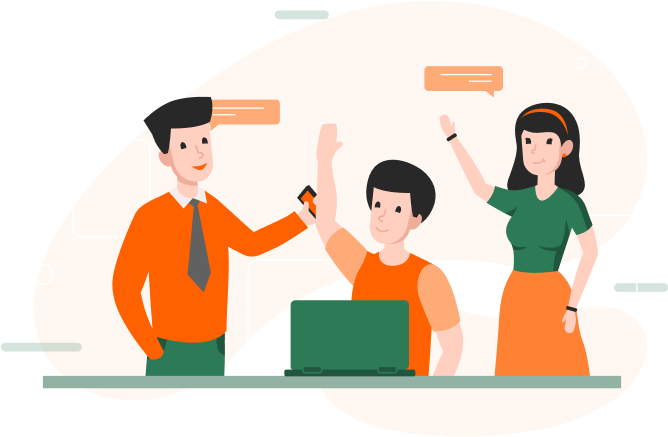
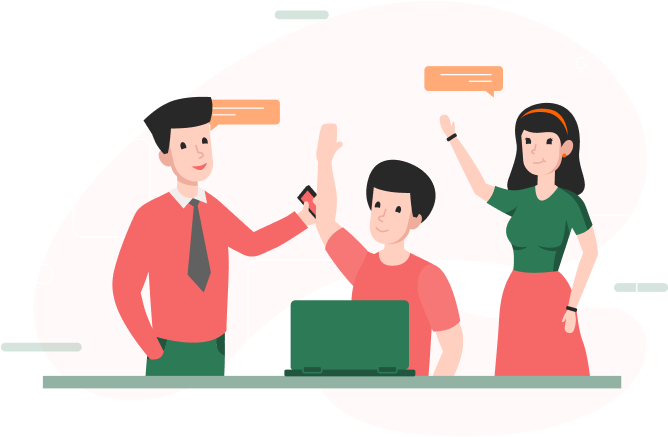
change color image

Changed region(s): [[0.1497, 0.4462, 0.479, 0.833], [0.479, 0.5057, 0.6886, 0.8627], [0.7186, 0.6247, 0.8982, 0.8627]]

diff --git a/public/images/icons/IconOurTeam.tsx b/public/images/icons/IconOurTeam.tsx
@@ -15,7 +15,7 @@ function IconOurTeam(props: any, fill?: string) {
           <path
             id="Shape"
             d="M0.00957613 14.5788C-0.0483371 14.049 0.121936 13.5196 0.477837 13.1229C0.833737 12.7262 1.34163 12.4997 1.87458 12.5H9.99958C10.6899 12.5 11.2496 11.9404 11.2496 11.25C11.2496 10.5596 10.6899 10 9.99958 10H4.37458C3.84171 10.0013 3.33347 9.77574 2.97687 9.37978C2.62027 8.98382 2.44899 8.45483 2.50583 7.925C2.66579 6.92879 3.54517 6.20939 4.55333 6.25H12.4996C13.1899 6.25 13.7496 5.69036 13.7496 5C13.7496 4.30965 13.1899 3.75 12.4996 3.75H6.87458C6.34171 3.75127 5.83347 3.52574 5.47687 3.12978C5.12027 2.73382 4.94899 2.20483 5.00583 1.675C5.16527 0.678492 6.04498 -0.0411792 7.05333 3.03448e-06H25.5646C25.7924 0.0017321 26.0155 0.0657038 26.2096 0.185003L31.2646 3.2125C31.8463 3.56131 32.5113 3.74698 33.1896 3.75H44.9996V14.8613L42.8346 13.0888C41.2099 11.8487 38.9247 11.9744 37.4458 13.385C36.3477 14.45 35.966 16.0547 36.4671 17.5H32.2758C31.2921 17.5041 30.3493 17.8947 29.6508 18.5875L17.8871 30.255L17.8621 30.28L17.3421 30.795C16.7323 31.3911 15.7561 31.3844 15.1546 30.78C14.6056 30.2288 14.552 29.3554 15.0296 28.7413L18.4671 24.5413C18.7727 24.1674 18.8358 23.651 18.6289 23.2146C18.4221 22.7783 17.9825 22.5001 17.4996 22.5H3.30333C2.29679 22.5393 1.41942 21.8208 1.25958 20.8263C1.20243 20.2969 1.37304 19.7682 1.72886 19.372C2.08467 18.9759 2.59212 18.7498 3.12458 18.75H9.99958C10.6899 18.75 11.2496 18.1904 11.2496 17.5C11.2496 16.8096 10.6899 16.25 9.99958 16.25H2.05333C1.0478 16.2889 0.171066 15.572 0.00957613 14.5788ZM20.8146 68.74C20.2883 68.7968 19.7628 68.6258 19.3708 68.27C18.977 67.9129 18.7515 67.4066 18.7496 66.875V66.8563V60C18.7496 59.3097 18.1899 58.75 17.4996 58.75C16.8092 58.75 16.2496 59.3097 16.2496 60V66.875V66.8925V67.9488C16.2839 68.9588 15.5593 69.8358 14.5608 69.9925C14.0356 70.0497 13.5112 69.8785 13.1208 69.5225C12.7261 69.165 12.5005 68.6576 12.4996 68.125V65.625V65.6V60C12.4996 59.3097 11.9399 58.75 11.2496 58.75C10.5592 58.75 9.99958 59.3097 9.99958 60V65.625V65.64C9.99624 66.17 9.76872 66.6739 9.37333 67.0269C8.97793 67.3799 8.4516 67.5491 7.92458 67.4925C6.92856 67.3331 6.20904 66.4541 6.24958 65.4463V63.125V63.1063V57.5C6.24958 56.8097 5.68993 56.25 4.99958 56.25C4.30922 56.25 3.74958 56.8097 3.74958 57.5V63.125V63.1363C3.74726 63.6667 3.52037 64.1713 3.12513 64.5251C2.72989 64.8789 2.20329 65.0487 1.67583 64.9925C0.680098 64.8332 -0.0396541 63.9551 -0.00042389 62.9475V44.4363C0.00150237 44.2111 0.0604165 43.99 0.170826 43.7938L3.21208 38.7363C3.56015 38.1547 3.74577 37.4903 3.74958 36.8125V25H14.8596L13.0858 27.1663C11.9423 28.5572 11.861 30.5381 12.8866 32.0181C13.9123 33.4981 15.7957 34.1174 17.4996 33.535V37.725C17.5037 38.7088 17.8943 39.6515 18.5871 40.35L30.2446 52.1C30.2583 52.115 30.2721 52.1288 30.2871 52.1425L30.7958 52.655C31.2338 53.1008 31.3612 53.7661 31.1189 54.3422C30.8766 54.9183 30.312 55.2925 29.6871 55.2913C29.3469 55.2928 29.0163 55.1786 28.7496 54.9675L24.5508 51.5313C24.1771 51.2191 23.6561 51.1524 23.2157 51.3604C22.7754 51.5683 22.4959 52.0131 22.4996 52.5V66.6963C22.5342 67.7051 21.8115 68.5816 20.8146 68.74ZM69.9896 55.4213C70.0475 55.951 69.8772 56.4804 69.5213 56.8771C69.1654 57.2738 68.6575 57.5003 68.1246 57.5H59.9996C59.3092 57.5 58.7496 58.0597 58.7496 58.75C58.7496 59.4404 59.3092 60 59.9996 60H65.6246C66.1575 59.9987 66.6657 60.2243 67.0223 60.6202C67.3789 61.0162 67.5502 61.5452 67.4933 62.075C67.3334 63.0712 66.454 63.7906 65.4458 63.75H57.4996C56.8092 63.75 56.2496 64.3097 56.2496 65C56.2496 65.6904 56.8092 66.25 57.4996 66.25H63.1246C63.6575 66.2487 64.1657 66.4743 64.5223 66.8702C64.8789 67.2662 65.0502 67.7952 64.9933 68.325C64.8339 69.3215 63.9542 70.0412 62.9458 70H44.4346C44.2067 69.9983 43.9837 69.9343 43.7896 69.815L38.7346 66.7875C38.1528 66.4387 37.4879 66.253 36.8096 66.25H24.9996V55.1363L27.1646 56.9088C28.7877 58.1536 31.0764 58.0278 32.5533 56.6125C33.6518 55.5489 34.0349 53.9453 33.5358 52.5H37.7233C38.7071 52.4959 39.6499 52.1053 40.3483 51.4125L52.1083 39.75L52.1521 39.7075L52.6608 39.2075C53.2706 38.6114 54.2468 38.6181 54.8483 39.2225C55.3974 39.7737 55.4509 40.6471 54.9733 41.2613L51.5358 45.4613C51.2322 45.8346 51.1698 46.3491 51.3755 46.7842C51.5811 47.2193 52.0183 47.4977 52.4996 47.5H66.6958C67.7024 47.4607 68.5797 48.1792 68.7396 49.1738C68.7967 49.7031 68.6261 50.2319 68.2703 50.628C67.9145 51.0241 67.407 51.2502 66.8746 51.25H59.9996C59.3092 51.25 58.7496 51.8097 58.7496 52.5C58.7496 53.1904 59.3092 53.75 59.9996 53.75H67.9496C68.9537 53.713 69.8283 54.4295 69.9896 55.4213ZM69.9996 25.5638C69.9977 25.7914 69.9342 26.0143 69.8158 26.2088L66.7871 31.2638C66.4384 31.8451 66.2528 32.5096 66.2496 33.1875V45H55.1358L56.9096 42.8338C58.1971 41.2245 58.0684 38.9045 56.6108 37.4475C55.5189 36.3997 53.94 36.0358 52.4996 36.5V32.275C52.4954 31.2912 52.1049 30.3485 51.4121 29.65L39.7496 17.8825L39.7258 17.8588L39.2096 17.3388C38.9167 17.0495 38.7531 16.6541 38.756 16.2425C38.7588 15.8308 38.9278 15.4378 39.2246 15.1525C39.7833 14.6194 40.6449 14.5666 41.2646 15.0275L45.4633 18.4638C45.8367 18.7659 46.3502 18.8273 46.7844 18.6219C47.2185 18.4164 47.4965 17.9803 47.4996 17.5V3.30375C47.4609 2.297 48.1798 1.4198 49.1746 1.26C49.7038 1.20323 50.2321 1.37402 50.628 1.72979C51.0238 2.08556 51.2498 2.59279 51.2496 3.125V10C51.2496 10.6904 51.8092 11.25 52.4996 11.25C53.1899 11.25 53.7496 10.6904 53.7496 10V2.05375C53.7103 1.04681 54.4295 0.169283 55.4246 0.0100031C55.9538 -0.0467666 56.4821 0.124025 56.878 0.479794C57.2738 0.835564 57.4998 1.34279 57.4996 1.875V10C57.4996 10.6904 58.0592 11.25 58.7496 11.25C59.4399 11.25 59.9996 10.6904 59.9996 10V4.375C59.9987 3.84235 60.2244 3.33445 60.6203 2.97813C61.0162 2.6218 61.545 2.45069 62.0746 2.5075C63.0706 2.66689 63.7901 3.54588 63.7496 4.55375V12.5C63.7496 13.1904 64.3092 13.75 64.9996 13.75C65.6899 13.75 66.2496 13.1904 66.2496 12.5V6.875C66.2487 6.34235 66.4744 5.83445 66.8703 5.47813C67.2662 5.1218 67.795 4.95069 68.3246 5.0075C69.3198 5.16736 70.0389 6.04529 69.9996 7.0525V25.5638Z"
-            fill="#FF8134"
+            fill="#d31111"
           />
         </g>
       </g>

diff --git a/public/images/icons/IconDf1.tsx b/public/images/icons/IconDf1.tsx
@@ -16,40 +16,40 @@ function IconDf1(props: any, fill?: string) {
           fill-rule="evenodd"
           clip-rule="evenodd"
           d="M19.5417 25.5C19.5417 24.1635 19.0101 22.8801 18.0659 21.9341C17.1199 20.99 15.8366 20.4583 14.5001 20.4583H5.33342C3.99691 20.4583 2.71358 20.99 1.76758 21.9341C0.823415 22.8801 0.291748 24.1635 0.291748 25.5V34.6666C0.291748 36.0031 0.823415 37.2865 1.76758 38.2325C2.71358 39.1766 3.99691 39.7083 5.33342 39.7083H14.5001C15.8366 39.7083 17.1199 39.1766 18.0659 38.2325C19.0101 37.2865 19.5417 36.0031 19.5417 34.6666V25.5ZM16.7917 25.5V34.6666C16.7917 35.2753 16.5497 35.8565 16.1207 36.2873C15.6899 36.7163 15.1087 36.9583 14.5001 36.9583H5.33342C4.72475 36.9583 4.14358 36.7163 3.71275 36.2873C3.28375 35.8565 3.04175 35.2753 3.04175 34.6666V25.5C3.04175 24.8913 3.28375 24.3101 3.71275 23.8793C4.14358 23.4503 4.72475 23.2083 5.33342 23.2083H14.5001C15.1087 23.2083 15.6899 23.4503 16.1207 23.8793C16.5497 24.3101 16.7917 24.8913 16.7917 25.5Z"
-          fill="#FF6100"
+          fill="#f04848"
         />
         <path
           id="Vector_2"
           fill-rule="evenodd"
           clip-rule="evenodd"
           d="M39.7085 25.5C39.7085 24.1635 39.1768 22.8801 38.2327 21.9341C37.2867 20.99 36.0033 20.4583 34.6668 20.4583H25.5002C24.1637 20.4583 22.8803 20.99 21.9343 21.9341C20.9902 22.8801 20.4585 24.1635 20.4585 25.5V34.6666C20.4585 36.0031 20.9902 37.2865 21.9343 38.2325C22.8803 39.1766 24.1637 39.7083 25.5002 39.7083H34.6668C36.0033 39.7083 37.2867 39.1766 38.2327 38.2325C39.1768 37.2865 39.7085 36.0031 39.7085 34.6666V25.5ZM34.4322 31.2768C34.8612 31.033 35.1252 30.5765 35.1252 30.0833C35.1252 29.5901 34.8612 29.1336 34.4322 28.8898L28.0155 25.2231C27.5902 24.9793 27.0677 24.9811 26.6442 25.2268C26.2188 25.4743 25.9585 25.9271 25.9585 26.4166V33.75C25.9585 34.2395 26.2188 34.6923 26.6442 34.9398C27.0677 35.1855 27.5902 35.1873 28.0155 34.9435L34.4322 31.2768Z"
-          fill="#FF6100"
+          fill="#f04848"
         />
         <path
           id="Vector_3"
           d="M12.6667 28.25C13.4261 28.25 14.0417 27.6344 14.0417 26.875C14.0417 26.1156 13.4261 25.5 12.6667 25.5C11.9074 25.5 11.2917 26.1156 11.2917 26.875C11.2917 27.6344 11.9074 28.25 12.6667 28.25Z"
-          fill="#FF6100"
+          fill="#f04848"
         />
         <path
           id="Vector_4"
           fill-rule="evenodd"
           clip-rule="evenodd"
           d="M19.5417 5.33332C19.5417 3.99682 19.0101 2.71349 18.0659 1.76749C17.1199 0.823323 15.8366 0.291656 14.5001 0.291656H5.33342C3.99691 0.291656 2.71358 0.823323 1.76758 1.76749C0.823415 2.71349 0.291748 3.99682 0.291748 5.33332V14.5C0.291748 15.8365 0.823415 17.1198 1.76758 18.0658C2.71358 19.01 3.99691 19.5417 5.33342 19.5417H14.5001C15.8366 19.5417 17.1199 19.01 18.0659 18.0658C19.0101 17.1198 19.5417 15.8365 19.5417 14.5V5.33332ZM11.9664 11.9388C11.9756 11.8783 11.9792 11.8142 11.9792 11.75V8.08332H12.4376C13.1966 8.08332 13.8126 7.46732 13.8126 6.70832C13.8126 5.94932 13.1966 5.33332 12.4376 5.33332H10.6042C9.84525 5.33332 9.22925 5.94932 9.22925 6.70832V9.45832C7.71125 9.45832 6.47925 10.6903 6.47925 12.2083C6.47925 13.7263 7.71125 14.9583 9.22925 14.9583C10.7472 14.9583 11.9792 13.7263 11.9792 12.2083C11.9792 12.1185 11.9756 12.0287 11.9664 11.9388Z"
-          fill="#FF6100"
+          fill="#f04848"
         />
         <path
           id="Vector_5"
           fill-rule="evenodd"
           clip-rule="evenodd"
           d="M8.42075 31.9442L2.75208 24.6567C2.39091 24.1928 1.77675 24.0095 1.22125 24.2002C0.665748 24.3908 0.291748 24.9133 0.291748 25.5L1.66675 37.875H17.2501L18.6251 35.5833C18.6251 35.2185 18.4802 34.8683 18.2217 34.6117L14.1444 30.5343C13.4019 29.79 12.2469 29.6488 11.3449 30.1897L8.42075 31.9442Z"
-          fill="#FF6100"
+          fill="#f04848"
         />
         <path
           id="Vector_6"
           fill-rule="evenodd"
           clip-rule="evenodd"
           d="M39.7085 5.33332C39.7085 3.99682 39.1768 2.71349 38.2327 1.76749C37.2867 0.823323 36.0033 0.291656 34.6668 0.291656H25.5002C24.1637 0.291656 22.8803 0.823323 21.9343 1.76749C20.9902 2.71349 20.4585 3.99682 20.4585 5.33332V14.5C20.4585 15.8365 20.9902 17.1198 21.9343 18.0658C22.8803 19.01 24.1637 19.5417 25.5002 19.5417H34.6668C36.0033 19.5417 37.2867 19.01 38.2327 18.0658C39.1768 17.1198 39.7085 15.8365 39.7085 14.5V5.33332ZM26.4168 14.0417H33.7502C34.5092 14.0417 35.1252 13.4257 35.1252 12.6667C35.1252 11.9077 34.5092 11.2917 33.7502 11.2917H26.4168C25.6578 11.2917 25.0418 11.9077 25.0418 12.6667C25.0418 13.4257 25.6578 14.0417 26.4168 14.0417ZM26.4168 8.54166H31.0002C31.7592 8.54166 32.3752 7.92566 32.3752 7.16666C32.3752 6.40766 31.7592 5.79166 31.0002 5.79166H26.4168C25.6578 5.79166 25.0418 6.40766 25.0418 7.16666C25.0418 7.92566 25.6578 8.54166 26.4168 8.54166Z"
-          fill="#FF6100"
+          fill="#f04848"
         />
       </g>
     </svg>

diff --git a/public/images/icons/IconVision.tsx b/public/images/icons/IconVision.tsx
@@ -14,62 +14,62 @@ function IconVision(props: any, fill?: string) {
         <path
           id="Vector"
           d="M34.9999 69.9848C38.3606 69.9848 41.1773 67.6051 41.8514 64.4417H28.1484C28.8225 67.6051 31.6393 69.9848 34.9999 69.9848Z"
-          fill="#FF8134"
+          fill="#d31111"
         />
         <path
           id="Vector_2"
           d="M24.2224 55.864V60.3316H45.7783V55.9955C45.7783 54.8707 45.9317 53.7651 46.2263 52.7075H23.8018C24.0785 53.7226 24.2224 54.783 24.2224 55.864Z"
-          fill="#FF8134"
+          fill="#d31111"
         />
         <path
           id="Vector_3"
           d="M51.1758 13.7249C46.952 9.44765 41.3199 7.04738 35.3151 6.96655C29.2418 6.88297 23.4973 9.1942 19.1255 13.4714C14.7565 17.7445 12.322 23.4356 12.2713 29.4965C12.2151 36.1905 15.0922 42.5391 20.164 46.9136C20.7559 47.4233 21.2888 47.9877 21.7587 48.5974H48.27C48.7536 47.9644 49.303 47.3781 49.9113 46.8492C54.8803 42.5254 57.73 36.2727 57.73 29.6938C57.73 23.6767 55.4023 18.0062 51.1758 13.7249ZM49.9606 29.3157C49.7044 29.7253 43.5927 39.3415 35 39.3415C26.4072 39.3415 20.2955 29.7253 20.0393 29.3157L19.3584 28.2265L20.0393 27.1374C20.2955 26.7277 26.4072 17.1116 35 17.1116C43.5927 17.1116 49.7044 26.7277 49.9606 27.1374L50.6415 28.2265L49.9606 29.3157Z"
-          fill="#FF8134"
+          fill="#d31111"
         />
         <path
           id="Vector_4"
           d="M35.0007 21.2216C30.122 21.2216 25.9558 26.0153 24.2939 28.2265C25.9558 30.4364 30.122 35.2315 35.0007 35.2315C39.8793 35.2315 44.0455 30.4364 45.7074 28.2265C44.0469 26.0181 39.8807 21.2216 35.0007 21.2216ZM37.0557 30.2816H32.9456V26.1715H37.0557V30.2816Z"
-          fill="#FF8134"
+          fill="#d31111"
         />
         <path
           id="Vector_5"
           d="M8.87012 2.92249L11.7759 0.0166703L16.0378 4.27853L13.132 7.18435L8.87012 2.92249Z"
-          fill="#FF8134"
+          fill="#d31111"
         />
         <path
           id="Vector_6"
           d="M0.0078125 20.5697L1.23261 16.6446L6.98944 18.441L5.76464 22.3661L0.0078125 20.5697Z"
-          fill="#FF8134"
+          fill="#d31111"
         />
         <path
           id="Vector_7"
           d="M8.86426 56.2123L13.1261 51.9505L16.0319 54.8563L11.7701 59.1182L8.86426 56.2123Z"
-          fill="#FF8134"
+          fill="#d31111"
         />
         <path
           id="Vector_8"
           d="M0 38.5997L5.75683 36.8034L6.98163 40.7285L1.2248 42.5248L0 38.5997Z"
-          fill="#FF8134"
+          fill="#d31111"
         />
         <path
           id="Vector_9"
           d="M53.9541 4.28345L58.216 0.021585L61.1218 2.9274L56.8599 7.18926L53.9541 4.28345Z"
-          fill="#FF8134"
+          fill="#d31111"
         />
         <path
           id="Vector_10"
           d="M63.0488 18.4545L68.8057 16.6582L70.0305 20.5833L64.2736 22.3796L63.0488 18.4545Z"
-          fill="#FF8134"
+          fill="#d31111"
         />
         <path
           id="Vector_11"
           d="M53.9492 54.8604L56.855 51.9546L61.1169 56.2165L58.2111 59.1223L53.9492 54.8604Z"
-          fill="#FF8134"
+          fill="#d31111"
         />
         <path
           id="Vector_12"
           d="M63.0361 40.681L64.2609 36.7559L70.0178 38.5523L68.793 42.4774L63.0361 40.681Z"
-          fill="#FF8134"
+          fill="#d31111"
         />
       </g>
     </svg>

diff --git a/public/images/icons/IconMission.tsx b/public/images/icons/IconMission.tsx
@@ -14,32 +14,32 @@ function IconMission(props: any, fill?: string) {
         <path
           id="Vector"
           d="M65.2748 5.65355C65.2202 5.1618 64.8158 4.75738 64.324 4.70274C60.1273 4.20006 55.9525 4.32026 51.9088 5.05248C43.4561 6.50169 35.0995 11.0948 28.6193 17.3585C28.0208 17.9281 26.5934 19.2759 26.0182 19.8284C22.607 23.7716 18.6754 28.9951 16.39 33.4131C16.0602 34.0824 16.3854 34.5906 16.9473 35.0742C17.4718 35.5988 18.4773 36.5933 19.756 37.872C24.6439 42.772 29.981 48.107 34.9034 53.0304L35.275 53.4019C35.7936 53.9317 36.5322 53.6942 37.0673 53.3145C39.6138 51.8937 43.1001 49.7298 46.7722 46.7572C59.1619 37.0541 67.465 21.5926 65.2748 5.65355ZM51.0564 31.3365C45.6596 36.8538 35.9835 32.8564 36.0729 25.1287C36.0007 17.3917 45.6272 13.4009 51.0564 18.9214C54.488 22.342 54.488 27.9157 51.0564 31.3365Z"
-          fill="#FF8134"
+          fill="#d31111"
         />
         <path
           id="Vector_2"
           d="M6.45525 36.3419C6.49895 36.3419 6.54263 36.3419 6.58639 36.331L14.4224 35.3802C13.8389 34.2727 14.0412 32.9319 14.7284 31.8939C15.2748 30.8884 16.171 29.3474 17.4169 27.4567C19.4835 24.2342 22.0324 21.1553 24.477 18.2874C24.477 18.2874 26.0508 16.7901 26.0508 16.7901C12.9529 16.6597 6.24843 28.1733 5.3844 35.0853C5.25881 35.7166 5.80157 36.3628 6.45525 36.3419Z"
-          fill="#FF8134"
+          fill="#d31111"
         />
         <path
           id="Vector_3"
           d="M48.1489 48.4511C45.0342 50.9757 41.6681 53.2489 38.1271 55.2271C37.1193 55.9183 35.7118 56.1611 34.5971 55.5549C34.5971 55.5549 33.6463 63.3909 33.6463 63.3909C33.5532 64.0144 34.0894 64.6304 34.7283 64.6149C36.7929 64.313 46.096 62.4458 50.8702 53.5004C52.3665 50.6936 53.2441 46.9269 53.198 43.9047C51.6066 45.4973 49.9588 46.9878 48.1489 48.4511Z"
-          fill="#FF8134"
+          fill="#d31111"
         />
         <path
           id="Vector_4"
           d="M28.9357 50.1561C25.6797 46.8912 21.9304 43.1464 18.7282 39.9375L17.985 41.4457C17.3621 42.7025 17.6025 44.2217 18.597 45.2162L24.7609 51.3801C25.7633 52.3744 27.2831 52.628 28.5314 51.9921L30.0396 51.249C29.6747 50.8856 29.3182 50.5235 28.9357 50.1561Z"
-          fill="#FF8134"
+          fill="#d31111"
         />
         <path
           id="Vector_5"
           d="M18.7174 51.3036C11.1658 44.5841 4.48853 57.8359 4.37886 64.44C4.32185 65.0685 4.90544 65.6541 5.53717 65.5986C12.1223 65.4878 25.3419 58.847 18.7174 51.3036Z"
-          fill="#FF8134"
+          fill="#d31111"
         />
         <path
           id="Vector_6"
           d="M44.8481 18.5388C36.1609 18.7649 36.1071 31.4688 44.8482 31.719C53.592 31.4629 53.5351 18.7645 44.8481 18.5388Z"
-          fill="#FF8134"
+          fill="#d31111"
         />
       </g>
     </svg>

diff --git a/public/images/icons/IconDf2.tsx b/public/images/icons/IconDf2.tsx
@@ -14,32 +14,32 @@ function IconDf2(props: any, fill?: string) {
         <path
           id="Vector"
           d="M5.41406 16.4768H17.9609C19.3825 16.4768 20.5391 15.3203 20.5391 13.8987V11.0628C20.656 10.967 20.3931 11.2545 23.8104 7.37168C25.3941 5.9507 24.6644 3.30469 22.546 2.91951C22.3866 2.89038 23.6012 2.89872 5.41406 2.89872C3.99248 2.89872 2.83594 4.05526 2.83594 5.47684V13.8987C2.83594 15.3203 3.99248 16.4768 5.41406 16.4768Z"
-          fill="#FF6100"
+          fill="#f04848"
         />
         <path
           id="Vector_2"
           d="M41.4219 23.5237C20.7841 23.5237 21.7539 23.4897 21.4539 23.5445C19.3396 23.929 18.603 26.5729 20.1896 27.9968C23.6007 31.8725 23.3446 31.5926 23.4609 31.6878V34.5237C23.4609 35.9453 24.6175 37.1018 26.0391 37.1018H41.4219C42.8434 37.1018 44 35.9453 44 34.5237V26.1018C44 24.6803 42.8434 23.5237 41.4219 23.5237ZM32.3408 31.3843C31.7191 31.7944 30.9244 31.5932 30.5533 31.0286C30.1587 30.4303 30.3168 29.6411 30.9091 29.241C31.5171 28.8414 32.3034 29.0126 32.6966 29.5968C33.0931 30.1981 32.9306 30.9864 32.3408 31.3843ZM38.1966 31.0286C37.5752 31.9742 36.0961 31.699 35.8608 30.5646C35.7275 29.8527 36.1751 29.1937 36.8731 29.0486C38.0264 28.8329 38.8176 30.087 38.1966 31.0286Z"
-          fill="#FF6100"
+          fill="#f04848"
         />
         <path
           id="Vector_3"
           d="M40.2306 11.9469C36.769 15.9176 30.6371 15.9225 27.1666 11.972C24.9048 13.7231 23.4609 16.3631 23.4609 19.3128C23.4609 20.0247 24.0381 20.6018 24.75 20.6018H42.7109C43.4228 20.6018 44 20.0247 44 19.3128C44 16.349 42.5302 13.6979 40.2306 11.9469Z"
-          fill="#FF6100"
+          fill="#f04848"
         />
         <path
           id="Vector_4"
           d="M16.8187 31.2106C13.3515 35.137 7.24573 35.1361 3.78409 31.1855C1.47606 32.9364 0 35.5927 0 38.5628C0 39.2747 0.577156 39.8518 1.28906 39.8518H19.25C19.9619 39.8518 20.5391 39.2747 20.5391 38.5628C20.5391 35.6067 19.089 32.9616 16.8187 31.2106Z"
-          fill="#FF6100"
+          fill="#f04848"
         />
         <path
           id="Vector_5"
           d="M10.3124 31.5738C13.682 31.5738 16.4136 28.8483 16.4136 25.4863C16.4136 22.1242 13.682 19.3987 10.3124 19.3987C6.94279 19.3987 4.21118 22.1242 4.21118 25.4863C4.21118 28.8483 6.94279 31.5738 10.3124 31.5738Z"
-          fill="#FF6100"
+          fill="#f04848"
         />
         <path
           id="Vector_6"
           d="M33.6873 12.3518C37.0572 12.3518 39.7891 9.61996 39.7891 6.25001C39.7891 2.88007 37.0572 0.148193 33.6873 0.148193C30.3173 0.148193 27.5854 2.88007 27.5854 6.25001C27.5854 9.61996 30.3173 12.3518 33.6873 12.3518Z"
-          fill="#FF6100"
+          fill="#f04848"
         />
       </g>
     </svg>

diff --git a/public/images/icons/IconDf3.tsx b/public/images/icons/IconDf3.tsx
@@ -14,12 +14,12 @@ function IconDf3(props: any, fill?: string) {
         <path
           id="Vector"
           d="M40.0677 17.1203C39.7871 16.6313 39.3822 16.2251 38.8942 15.9429C38.4061 15.6606 37.8521 15.5124 37.2883 15.5131C36.7245 15.5138 36.1709 15.6634 35.6836 15.9469C35.1962 16.2304 34.7924 16.6376 34.513 17.1273C32.8549 19.7062 31.1489 22.2668 29.5151 24.8542C28.9043 25.9167 27.9069 26.7023 26.7309 27.0472C24.4005 27.7622 21.6575 28.6146 19.0177 29.5702C18.7908 29.6668 18.5415 29.6987 18.2976 29.6622C18.0537 29.6258 17.8247 29.5226 17.6359 29.3639C17.472 29.2072 17.3557 29.0073 17.3005 28.7874C17.2453 28.5674 17.2534 28.3363 17.3238 28.1208C17.3942 27.9052 17.5241 27.7139 17.6985 27.569C17.8729 27.4241 18.0848 27.3314 18.3096 27.3016C20.6253 26.4956 23.0314 25.6862 25.3148 24.8749C27.6588 24.3003 28.1661 21.0212 26.0296 19.8839C25.717 19.6856 25.364 19.5599 24.9964 19.5159C24.6288 19.4719 24.2561 19.5107 23.9055 19.6296C21.2296 20.4279 18.5957 21.2386 15.9035 22.0356C11.7492 23.2191 8.05789 23.8822 6.47165 28.4704C5.55628 31.1892 4.61566 34.0661 3.65985 36.7885C3.60044 36.9617 3.61191 37.1514 3.69174 37.3162C3.77157 37.4811 3.9133 37.6077 4.08606 37.6684L14.2398 41.2089C14.3984 41.2649 14.5721 41.2609 14.7279 41.1976C14.8837 41.1342 15.0109 41.0159 15.0854 40.8651C15.2722 40.56 15.519 40.2961 15.8109 40.0892C16.1028 39.8824 16.4337 39.7371 16.7834 39.6621C20.821 38.2401 25.036 36.7455 29.1096 35.3517C30.917 34.7682 32.4276 33.5065 33.3237 31.832C34.7399 29.2952 36.211 26.7447 37.6341 24.2699C38.6225 22.1321 41.2822 19.4906 40.0677 17.1203Z"
-          fill="#FF6100"
+          fill="#f04848"
         />
         <path
           id="Vector_2"
           d="M12.59 21.575C15.0354 20.8741 17.4952 20.1159 19.9252 19.3957C21.6051 18.9659 22.9791 18.2639 24.7649 18.117C25.432 18.141 26.0837 18.3238 26.666 18.6503C27.2483 18.9767 27.7443 19.4373 28.1129 19.9938C28.7503 19.4732 29.3585 18.9179 29.9347 18.3302C31.5158 16.7284 33.3788 14.1299 33.2894 10.8713C33.2294 8.73949 32.3552 6.71159 30.8466 5.2042C29.3379 3.69681 27.3093 2.82438 25.1774 2.76612C23.0859 2.67118 21.0372 3.3795 19.4509 4.74601C19.3034 4.90832 19.3074 4.87032 19.1484 4.72538C17.9396 3.69349 16.4593 3.03135 14.8843 2.81802C13.3093 2.6047 11.7062 2.84921 10.2664 3.52235C8.83033 4.13721 7.60175 5.15274 6.72762 6.44747C5.85349 7.74221 5.37083 9.26133 5.33736 10.8232C5.08166 15.0924 8.90054 19.1261 12.59 21.575Z"
-          fill="#FF6100"
+          fill="#f04848"
         />
       </g>
     </svg>

diff --git a/container/home/Difference.tsx b/container/home/Difference.tsx
@@ -29,7 +29,7 @@ const Differences = () => {
     <div
       className="w-full flex justify-center"
       style={{
-        background: "rgba(255, 221, 163, 0.20)"
+        background: "rgba(250, 155, 155, 0.14)"
       }}
     >
       <div className="max-w-[1520px] m-auto flex-col xs:mx-[16px] mx-[40px] 2xl:mx-0 my-[50px] 2xl:py-[60px] py-[48px] w-full">
@@ -52,12 +52,12 @@ const Differences = () => {
                 <div
                   className="m-auto mb-[32px] rounded-[20px] w-[106px] h-[106px] flex items-center justify-center"
                   style={{
-                    background: "rgba(250, 191, 155, 0.14)"
+                    background: "rgba(250, 155, 155, 0.14)"
                   }}
                 >
                   {item.icon}
                 </div>
-                <h1 className="text-text-title text-[24px] text-center Roboto-600 leading-[36px] pb-[16px]">
+                <h1 className="text-button-red text-[24px] text-center Roboto-600 leading-[36px] pb-[16px]">
                   {item.name}
                 </h1>
                 <h2 className="text-text-main text-[18px] leading-[27px] text-center pb-[24px]">

diff --git a/container/home/Project.tsx b/container/home/Project.tsx
@@ -162,7 +162,7 @@ const Project = () => {
                 fill-rule="evenodd"
                 clip-rule="evenodd"
                 d="M6.5 12C6.5 11.8011 6.57902 11.6103 6.71967 11.4696C6.86032 11.329 7.05109 11.25 7.25 11.25H15.9395L12.719 8.03097C12.5782 7.89014 12.4991 7.69913 12.4991 7.49997C12.4991 7.30081 12.5782 7.1098 12.719 6.96897C12.8598 6.82814 13.0508 6.74902 13.25 6.74902C13.4492 6.74902 13.6402 6.82814 13.781 6.96897L18.281 11.469C18.3508 11.5386 18.4063 11.6214 18.4441 11.7125C18.4819 11.8036 18.5013 11.9013 18.5013 12C18.5013 12.0986 18.4819 12.1963 18.4441 12.2874C18.4063 12.3785 18.3508 12.4613 18.281 12.531L13.781 17.031C13.6402 17.1718 13.4492 17.2509 13.25 17.2509C13.0508 17.2509 12.8598 17.1718 12.719 17.031C12.5782 16.8901 12.4991 16.6991 12.4991 16.5C12.4991 16.3008 12.5782 16.1098 12.719 15.969L15.9395 12.75H7.25C7.05109 12.75 6.86032 12.671 6.71967 12.5303C6.57902 12.3896 6.5 12.1989 6.5 12Z"
-                fill="#FF6100"
+                fill="#d31111"
               />
             </g>
           </svg>

diff --git a/components/Footer/index.tsx b/components/Footer/index.tsx
@@ -79,7 +79,7 @@ const Footer = () => {
             {routes.map((item, index) => {
               return (
                 <li
-                  className="header__item text-text-main w-fit pc:px-[16px] py-[8px] cursor-pointer hover:text-[#FF8134] Roboto-500 text-[18px] leading-[150%] mt-1 first:pl-0 last:pr-0"
+                  className="header__item text-text-main w-fit pc:px-[16px] py-[8px] cursor-pointer hover:text-button-red Roboto-500 text-[18px] leading-[150%] mt-1 first:pl-0 last:pr-0"
                   onClick={() => router.push(item.router)}
                   data-activeid={
                     router.pathname === item.router ? "active" : ""

diff --git a/container/home/Service.tsx b/container/home/Service.tsx
@@ -12,7 +12,7 @@ const Service = () => {
             <h1 className="text-text-red 2xl:text-[32px] text-[28px] uppercase leading-[38px] Roboto-700">
               Services
             </h1>
-            <div className="w-full h-[4px] bg-color-main my-[24px] sd:my-[32px]"></div>
+            <div className="w-full h-[4px] bg-button-red my-[24px] sd:my-[32px]"></div>
             <h1 className="text-color-label text-[22px] sd:text-[32px] Roboto-600 pb-[32px]">
               {t("common.service_desc")}
             </h1>

diff --git a/container/about-us/AboutUsContent.tsx b/container/about-us/AboutUsContent.tsx
@@ -54,7 +54,7 @@ const AboutUsContent = () => {
             <h1 className="text-text-red 2xl:text-[32px] text-[28px] uppercase leading-[38px] Roboto-700">
               {t("common.achievement")}
             </h1>
-            <div className="w-full h-[4px] bg-color-main my-[32px]"></div>
+            <div className="w-full h-[4px] bg-text-red my-[32px]"></div>
             <ul>
               <li className="text-color-label text-[20px] Roboto-500 leading-[30px] pb-[6px]">
                 {t("common.achievement_1")}

diff --git a/container/project/ProjectList.tsx b/container/project/ProjectList.tsx
@@ -44,7 +44,7 @@ const ProjectList = () => {
               />
             </div>
             <div className="flex-1">
-              <h1 className="text-[26px] 2xl:text-[32px] Roboto-700 pb-[16px]">
+              <h1 className="text-[26px] 2xl:text-[32px] Roboto-700 pb-[16px] text-button-red">
                 {project.title}
               </h1>
               <h2 className="text-text-main uppercase text-[26px]  2xl:text-[30px] pb-[16px]">
